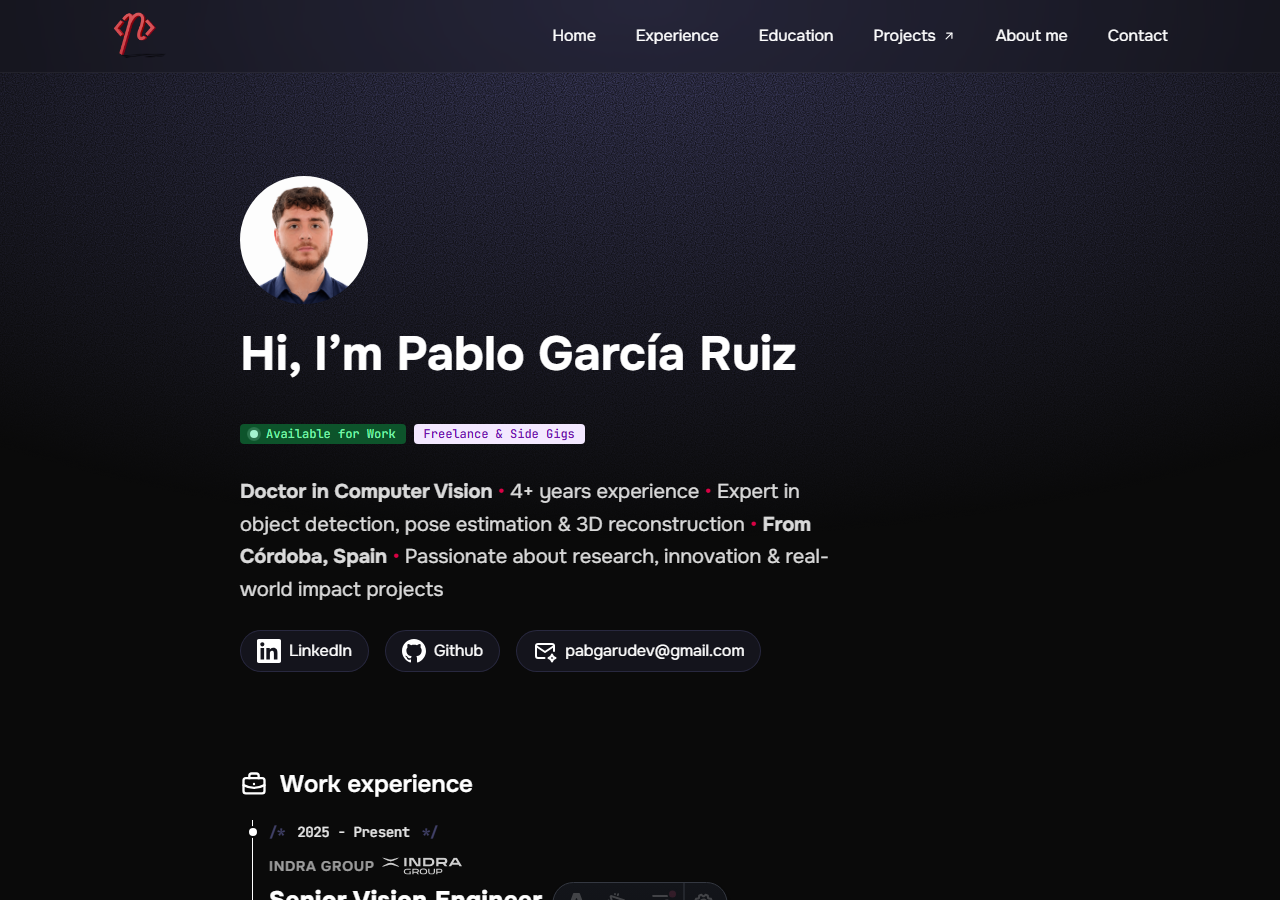
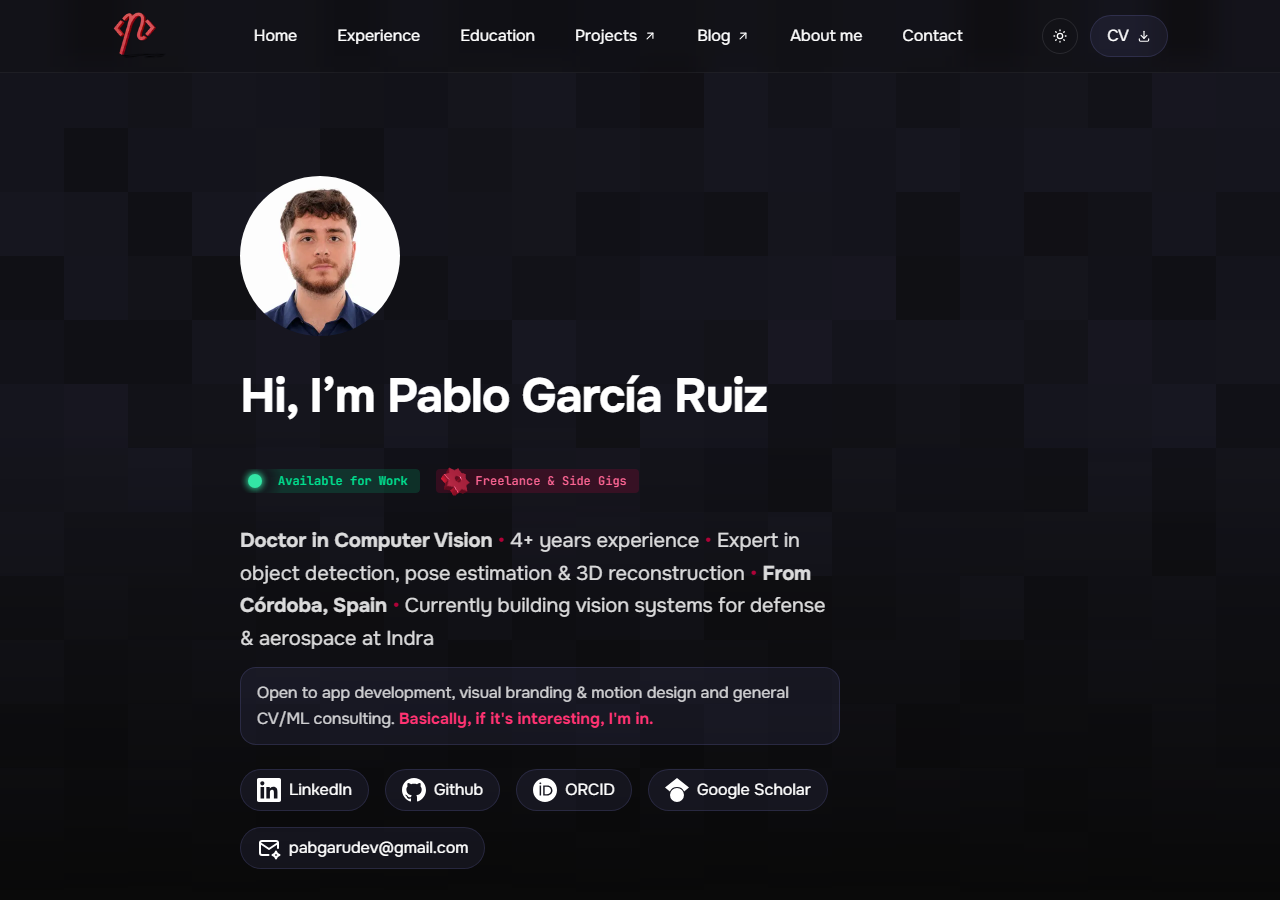
Updated Readme

diff --git a/README.md b/README.md
@@ -1,32 +1,47 @@
-# Pablo García Ruiz — Portfolio
+# Pablo García Ruiz, Portfolio
 
-Personal site and portfolio for **Pablo García Ruiz**, PhD in Computer Vision. It showcases research papers, my doctoral thesis, side projects, and professional experience in object detection, pose estimation, and 3D reconstruction — along with the info to get in touch for freelance and side gigs.
+Personal site and portfolio for **Pablo García Ruiz**, PhD in Computer Vision. It showcases research papers, my doctoral thesis, side projects, and professional experience in object detection, pose estimation, and 3D reconstruction, along with the info to get in touch for freelance and side gigs.
 
 🔗 **Live:** [pablogarciaruiz.com](https://www.pablogarciaruiz.com)
 
 ![Portfolio preview](.github/preview.png)
 
-[![Astro](https://img.shields.io/badge/Astro-5-BC52EE?logo=astro&logoColor=white)](https://astro.build)
+[![Astro](https://img.shields.io/badge/Astro-7-BC52EE?logo=astro&logoColor=white)](https://astro.build)
 [![Tailwind CSS](https://img.shields.io/badge/Tailwind_CSS-4-06B6D4?logo=tailwindcss&logoColor=white)](https://tailwindcss.com)
 [![TypeScript](https://img.shields.io/badge/TypeScript-3178C6?logo=typescript&logoColor=white)](https://www.typescriptlang.org)
-[![Vercel Analytics](https://img.shields.io/badge/Vercel-Analytics-000000?logo=vercel&logoColor=white)](https://vercel.com/analytics)
+[![three.js](https://img.shields.io/badge/three.js-000000?logo=threedotjs&logoColor=white)](https://threejs.org)
+[![Vercel](https://img.shields.io/badge/Vercel-000000?logo=vercel&logoColor=white)](https://vercel.com)
 [![License: MIT](https://img.shields.io/badge/License-MIT-yellow.svg)](LICENSE)
 
 ## Stack
 
-- [Astro](https://astro.build) — static site generation, content-first pages
-- [Tailwind CSS](https://tailwindcss.com) — utility-first styling
-- [TypeScript](https://www.typescriptlang.org) — typed component props and client scripts
-- [Vercel Analytics](https://vercel.com/analytics) — privacy-friendly traffic insights
+- [Astro 7](https://astro.build), static pages plus on-demand endpoints, content collections, and view transitions
+- [Tailwind CSS 4](https://tailwindcss.com), utility-first styling with a manual, persisted light/dark theme
+- [TypeScript](https://www.typescriptlang.org), typed component props and client scripts
+- [MDX](https://mdxjs.com), blog posts as a content collection, with a generated RSS feed and sitemap
+- [three.js](https://threejs.org), WebGL section-heading icons and small decorative meshes, each with a flat-icon and reduced-motion fallback
+- [Resend](https://resend.com), transactional email behind the `/api/contact` form (honeypot plus server-side validation)
+- [Vercel](https://vercel.com), hosting, the Astro adapter, and privacy-friendly analytics
+- Security headers (CSP, HSTS, and the rest) set in `vercel.json`, plus JSON-LD structured data on every page
 
 ## Getting started
 
 ```sh
 npm install
-npm run dev       # start local dev server
-npm run build     # build for production
-npm run preview   # preview the production build
+npm run dev                # local dev server
+npm run build              # production build into dist/
+npx serve dist/client      # serve the build locally (the Vercel adapter has no `astro preview`)
 ```
+
+For the contact form, copy `.env.example` to `.env` and set `RESEND_API_KEY` (and optionally `CONTACT_TO_EMAIL`). In Vercel, set the same values under Project Settings, Environment Variables.
+
+## Quality checks
+
+CI runs on every push and pull request (`.github/workflows/ci.yml`):
+
+- `npm run build`
+- Lighthouse CI, with budgets for accessibility, SEO, best practices, and performance
+- Pa11y CI, an axe accessibility pass over the key routes (advisory only, see the workflow comment for why)
 
 ## License
 
